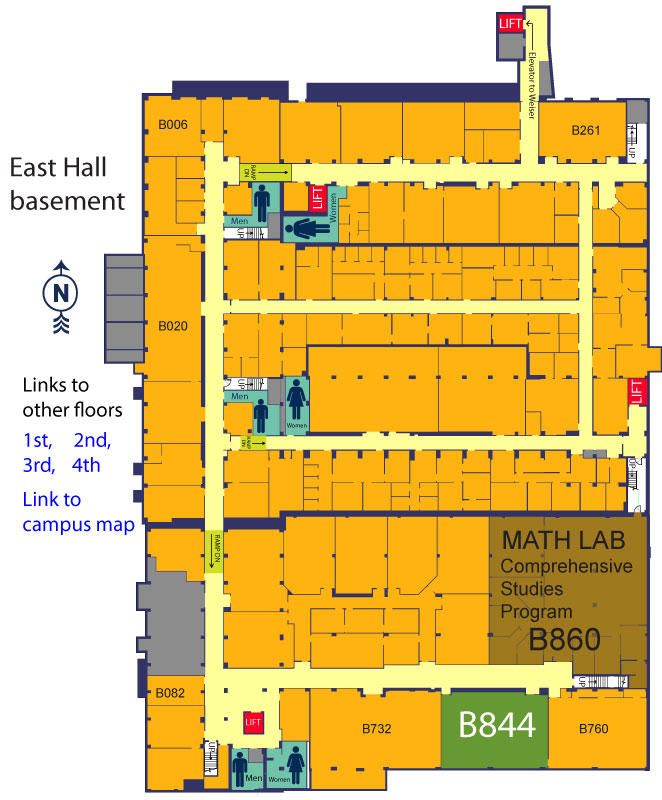
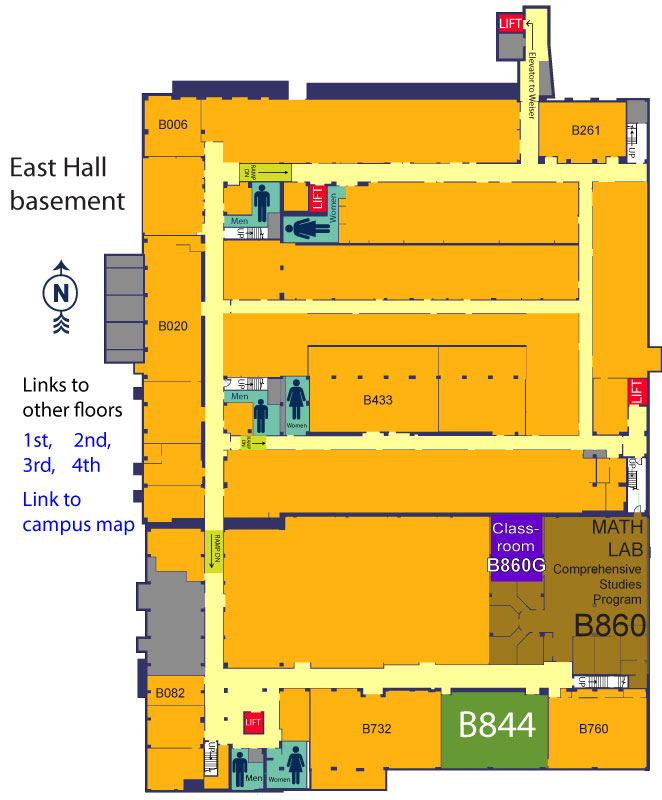
Update maps

diff --git a/public/maps/ccl1.html b/public/maps/ccl1.html
@@ -1,25 +1,22 @@
-<!DOCTYPE html PUBLIC "-//W3C//DTD XHTML 1.0 Transitional//EN" "http://www.w3.org/TR/xhtml1/DTD/xhtml1-transitional.dtd">
+<!DOCTYPE html>
 <html xmlns="http://www.w3.org/1999/xhtml">
 <head>
 <meta http-equiv="Content-Type" content="text/html; charset=utf-8" />
 <title>Maps CCL floor 1</title>
 </head>
 <body>
-<img src="ccl1.jpg" alt="CC Little foor 1" width="470" height="800" border="0" usemap="#ccl1" />
+<img style="margin:3%;" src="ccl1.jpg" alt="CC Little foor 1"  border="0" usemap="#ccl1" />
 <map name="ccl1" id="ccl1">
-  <area shape="rect" coords="245,611,280,631" href="ccl3.html" alt="link to 3rd floor" title="link to 3rd floor" />
-  <area shape="rect" coords="290,610,444,633" href="index.html"  alt="Link to campus map" title="Link to campus map" />
-  <area shape="rect" coords="197,611,232,631" href="ccl2.html" alt="link to 2nd floor" title="link to 2nd floor" />
-  <area shape="poly" coords="7,53" href="#" />
-  <area shape="poly" coords="240,67" href="#" />
-  <area shape="poly" coords="6,52" href="#" />
-  <area shape="rect" coords="90,225,135,261" href="../classrooms/CCL1509"  alt="Link to data room 1509" title="Link to data room 1509" />
-  <area shape="rect" coords="91,268,136,303" href="../classrooms/CCL1507"  alt="Link to data room 1507" title="Link to data room 1507" />
-  <area shape="rect" coords="91,310,139,381" href="../classrooms/CCL1505"  alt="Link to data room 1505" title="Link to data room 1505" />
-  <area shape="rect" coords="10,286,59,308" href="../classrooms/CCL1508"  alt="Link to data room 1508" title="Link to data room 1508" />
-  <area shape="rect" coords="11,208,60,282" href="../classrooms/CCL1512"  alt="Link to data room 1512" title="Link to data room 1512" />
-  <area shape="rect" coords="11,132,58,204" href="../classrooms/CCL1518"  alt="Link to data room 1518" title="Link to data room 1518" />
-  <area shape="poly" coords="59,127,9,127,9,53,110,10,156,65,109,111" href="../classrooms/CCL1528"  alt="Link to data room 1528" title="Link to data room 1528" />
+  <area shape="rect" coords="354,603,515,642" alt="Link to campus map" title="Link to campus map" />
+  <area shape="rect" coords="305,605,352,642" alt="link to 3rd floor" title="link to 3rd floor" />
+  <area shape="rect" coords="253,604,303,643"  alt="link to 2nd floor" title="link to 2nd floor" />
+  <area shape="rect" coords="145,306,214,390"  alt="Link to data room 1505" title="Link to data room 1505" />
+  <area shape="rect" coords="147,220,208,262"  alt="Link to data room 1509" title="Link to data room 1509" />
+  <area shape="rect" coords="70,260,133,308"  alt="Link to data room 1508" title="Link to data room 1508" />
+  <area shape="rect" coords="147,264,214,306"  alt="Link to data room 1507" title="Link to data room 1507" />
+  <area shape="rect" coords="69,207,131,257"  alt="Link to data room 1512" title="Link to data room 1512" />
+  <area shape="rect" coords="69,130,131,205"  alt="Link to data room 1518" title="Link to data room 1518" />
+  <area shape="poly" coords="139,127,61,128,63,44,184,3,229,64,182,115"  alt="Link to data room 1528" title="Link to data room 1528" />
 </map>
 </body>
 </html>

diff --git a/public/maps/chema.html b/public/maps/chema.html
@@ -1,3 +1,4 @@
+
 <!DOCTYPE html>
 <head>
 <meta http-equiv="Content-Type" content="text/html; charset=utf-8" />
@@ -6,12 +7,10 @@
 <body>
 <img src="chema.jpg" alt="Image of Chemistry - Basement" width="1024" height="770" border="0" usemap="#chema" />
 <map name="chema" id="chema">
-  <area shape="rect" coords="566,462,651,523" href="../classrooms/CHEMA867"  alt="Link to data for room A867" title="Link to data for room A867" />
   <area shape="rect" coords="13,382,164,406" href="chem1.html"  alt="Link to first floor" title="Link to first floor" />
   <area shape="poly" coords="12,427,82,427,83,454,143,454,143,481,12,481" href="index.html"  alt="Link to campus map" title="Link to campus map" />
-  <area shape="rect" coords="657,451,717,524" href="../classrooms/CHEMA863"  alt="Link to data for room A863" title="Link to data for room A863" />
   <area shape="poly" coords="846,352,914,279,943,315,946,486,915,522,843,447,817,451,819,353" href="../classrooms/CHEM1800"  alt="Link to data for room 1800" title="Link to data for room 1800" />
-  <area shape="rect" coords="636,374,726,438" href="../classrooms/CHEMA859"  alt="Link to data for room A859" title="Link to data for room A859" />
+  <area shape="poly" coords="523,525,719,331,722,524" href="../classrooms/CHEMA859" alt="Link to data for room A859" title="Link to data for room A859" />
 </map>
 </body>
 </html>

diff --git a/public/maps/ehb.html b/public/maps/ehb.html
@@ -13,7 +13,8 @@
   <area shape="rect" coords="22,454,54,477" href="eh3.html"  alt="go to the 3rd floor" title="go to the 3rd floor" />
   <area shape="rect" coords="70,454,105,477" href="eh4.html"  alt="go to the 4th floor" title="go to the 4th floor" />
   <area shape="rect" coords="19,488,135,535" href="index.html"  alt="Link to campus map" title="Link to campus map" />
-  <area shape="rect" coords="441,690,547,770" onmouseover="color=ff,ff,99" href="../classrooms/EHB844"  alt="Link to data room B844" title="Link to data room B844" />
+  <area shape="rect" coords="480,515,550,595" href="../classrooms/EHB860G"  alt="Link to data room B860G" title="Link to data room B860G" />
+  <area shape="rect" coords="440,690,546,770" href="../classrooms/EHB844"  alt="Link to data room B844" title="Link to data room B844" />
 </map>
 </body>
 </html>
